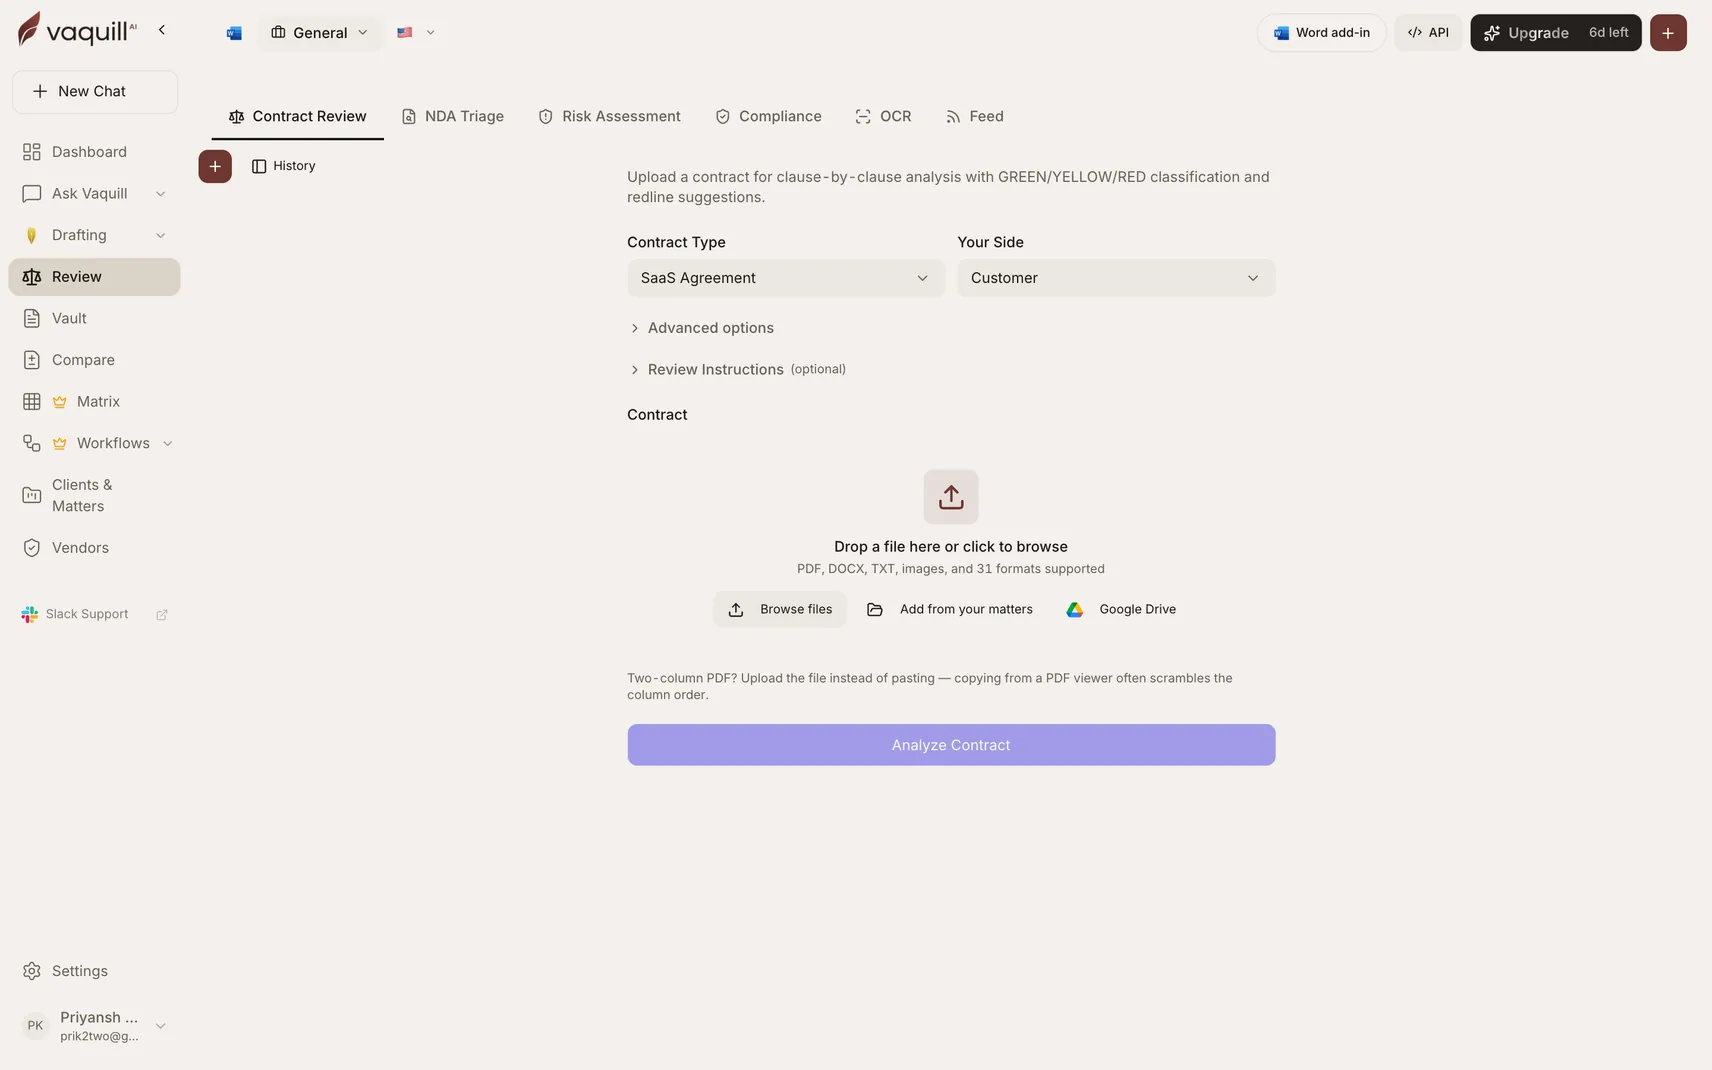
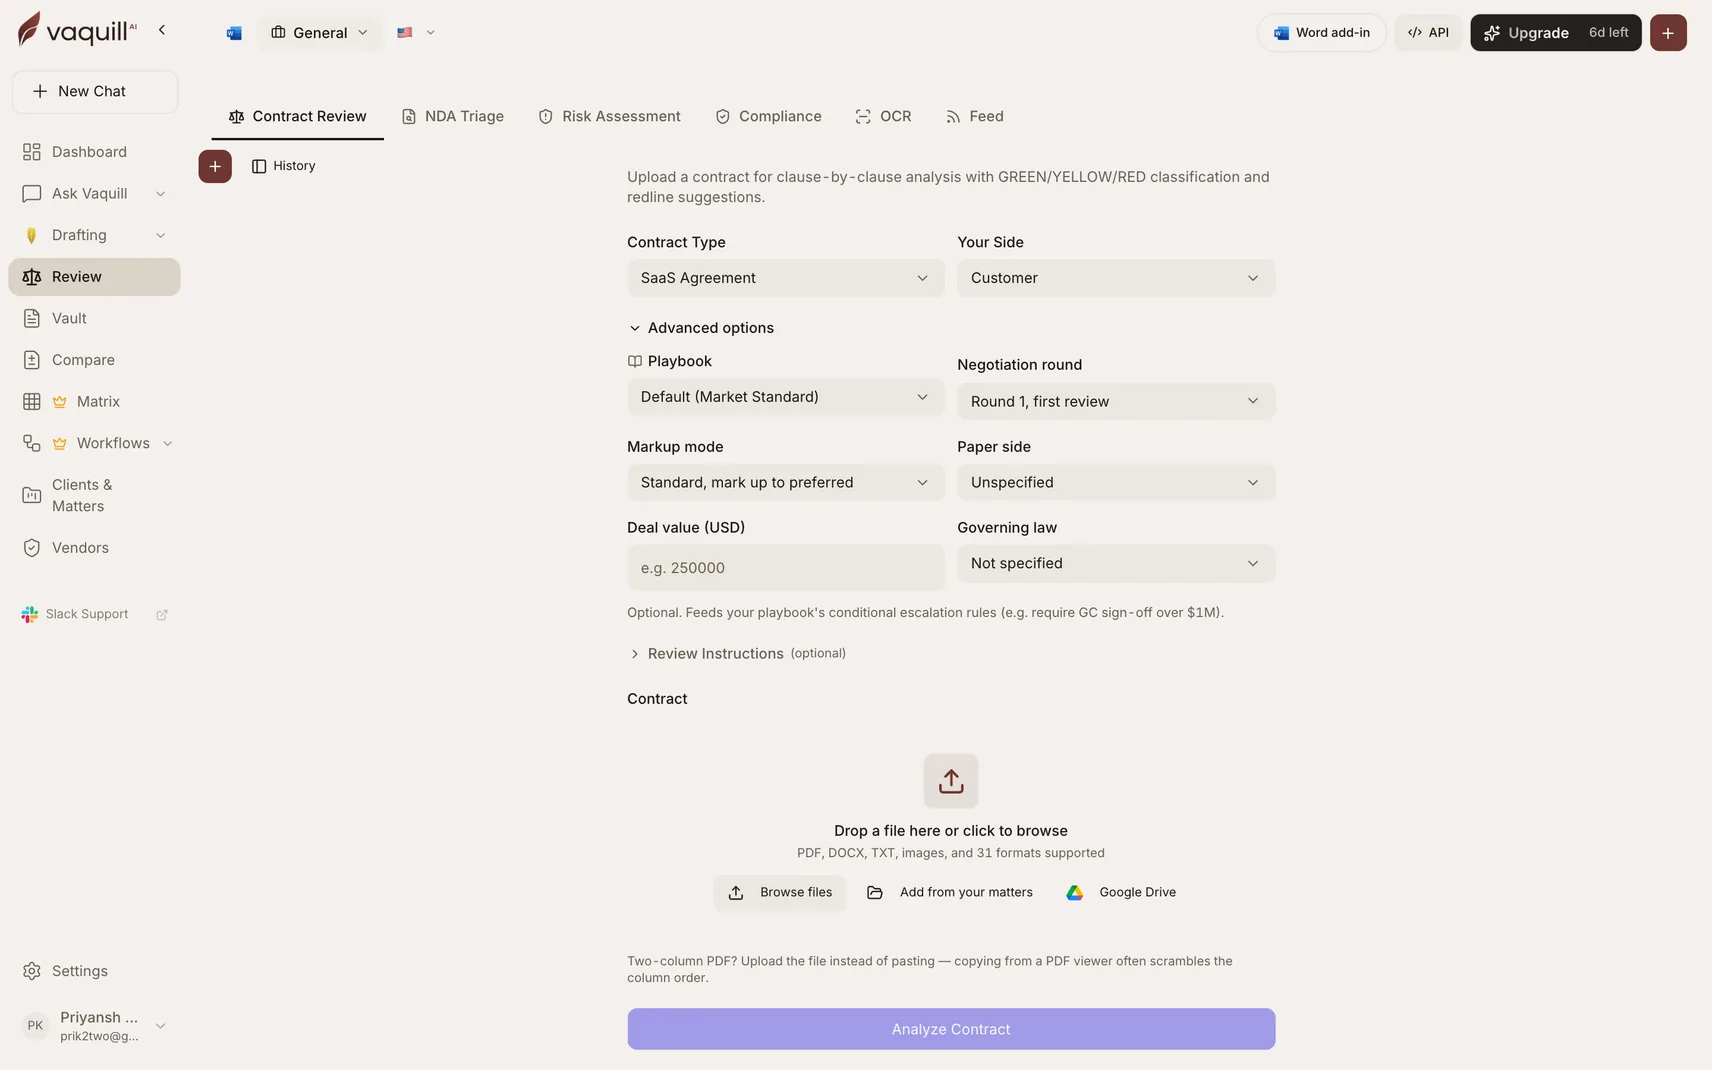
docs: shoot interaction states, and remove nine orphaned images
A review of the old screenshots against the new ones showed the trade honestly:
the originals were richer, because whoever took them opened a matrix cell and
expanded a dropdown before shooting, while the automated captures grabbed
resting landing states. The originals were also all stale.

Re-captures four screens in their instructive state rather than at rest:
- Matrix now shows an opened cell with its answer, typed payload, AI reasoning,
  two citations with page references, and the verify and approve actions
- Review hub expands Advanced options so playbook, markup mode, and negotiation
  round are visible
- Playbook opens to its clause positions
- Draft editor shows the document body

Adds capture_rich.mjs, which declares a steps function per shot that runs
before the shutter, and records the rule in the README: shoot the interaction
state, not the landing state. Matrix cells expose data-cell-id; the Review hub
hides its settings behind Advanced options.

Removes nine images that no page references, 4.1 MB:
- eight superseded by WebP captures of the same surface
- transform.png, unreferenced before this work began

matrix.png is worth calling out separately. It showed document names from a
real account rather than fixtures, several of them India-specific, and
advertised 124 of 150 cells not found. Replaced by a synthetic capture.

diff --git a/scripts/screenshots/README.md b/scripts/screenshots/README.md
@@ -27,6 +27,7 @@ export CHROME_BIN="$HOME/Library/Caches/ms-playwright/chromium-<build>/chrome-ma
 node auth.mjs            # writes OUT/auth-state.json (a logged-in storage state)
 node capture.mjs         # top-level surfaces, from the SHOTS list in the file
 node capture_detail.mjs  # detail views, from OUT/detail_urls.json
+node capture_rich.mjs    # interaction states (opened cells, expanded panels)
 node optimize.mjs        # PNG -> WebP q82, capped at 150 KB
 cp "$OUT"/shots/web/*.webp ../../images/
 ```
@@ -47,6 +48,12 @@ Follows Google, GitHub, GitLab and Cloudflare documentation guidance.
 
 Crop to the smallest region that answers the question. Full-app shots belong
 on landing pages, not inside a procedure. Budget roughly 5 images per page.
+
+**Shoot the interaction state, not the landing state.** A screen's resting view
+is rarely the instructive one. The value is in the opened cell, the expanded
+panel, the visible dropdown. `capture_rich.mjs` declares a `steps` function per
+shot that runs before the shutter. Matrix cells expose `data-cell-id`; the
+Review hub hides playbook and markup settings behind **Advanced options**.
 
 ## Gotchas that will cost you an hour
 
